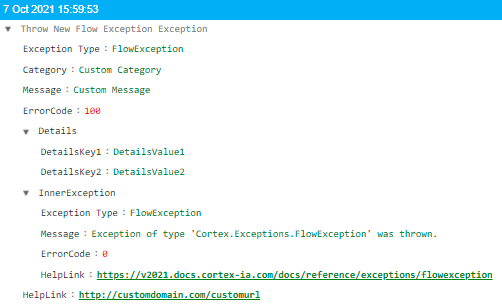
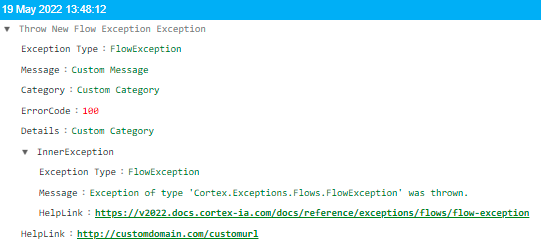
Fixed up incorrect error code data type and associated images

Changed region(s): [[0.0299, 0.6857, 0.9861, 1.0], [0.0, 0.0, 1.0, 0.3143], [0.0299, 0.3429, 0.3884, 0.6571]]

diff --git a/content/en/docs/Reference/Blocks/Exceptions/throw-exception/throw-new-flow-exception-block.md b/content/en/docs/Reference/Blocks/Exceptions/throw-exception/throw-new-flow-exception-block.md
@@ -18,12 +18,12 @@ All properties are optional, and if not supplied will be set to the following de
 
 | Property           | Default Value                     |
 |--------------------|-----------------------------------|
-| [Message][Message Property] | `"Exception of type 'Cortex.Exceptions.FlowException' was thrown."` |
+| [Message][Message Property] | `"Exception of type 'Cortex.Exceptions.Flows.FlowException' was thrown."` |
 | [Category][Category Property] | `null` |
-| [Error Code][ErrorCode Property] | `0` |
+| [Error Code][ErrorCode Property] | `null` |
 | [Details][Details Property] | `null`|
 | [InnerException][InnerException Property] | `null` |
-| [HelpLink][HelpLink Property] | `https://v2022.docs.cortex-ia.com/docs/reference/exceptions/flowexception` |
+| [HelpLink][HelpLink Property] | `https://v2022.docs.cortex-ia.com/docs/reference/exceptions/flows/flow-exception` |
 
 ## Examples
 
@@ -37,7 +37,7 @@ This example will throw a new [FlowException][] with all properties configured.
 |--------------------|---------------------------|------------------------------------------|
 | [Message][Message Property] | `($)Message`, with value `"Custom Message"` | `($)Message` is a variable of type [String][] |
 | [Category][Category Property] | `($)Category`, with value `"Custom Category"` | `($)Category` is a variable of type [String][] |
-| [Error Code][ErrorCode Property] | `($)ErrorCode`, with value `100` | `($)ErrorCode` is a variable of type [Int32][] |
+| [Error Code][ErrorCode Property] | `($)ErrorCode`, with value `100` | `($)ErrorCode` is a variable of type [Nullable][]&lt;[Int32][]&gt; |
 | [Details][Details Property] | `($)Details`, with value `{"DetailsKey1" : "DetailsValue1", "DetailsKey2" : "DetailsValue2"}` | `($)Details` is a variable of type [IDictionary][]&lt;[String][], [String][]&gt; |
 | [InnerException][InnerException Property] | `($)InnerException`, with value `($)Exception` containing another [FlowException][] with default properties | `($)InnerException` is a variable of type [FlowException][] |
 | [HelpLink][HelpLink Property] | `($)HelpLink`, with value `"http://customdomain.com/customurl"` | `($)HelpLink` is a variable of type [String][] |
@@ -72,7 +72,7 @@ Throwing a new [FlowException][] without configuring any of the block's properti
 
 A [Message][Message Property] describing the exception that occurred.
 
-If [Message][Message Property] is not provided or is set to `null`, it will default to `"Exception of type 'Cortex.Exceptions.FlowException' was thrown."`.
+If [Message][Message Property] is not provided or is set to `null`, it will default to `"Exception of type 'Cortex.Exceptions.Flows.FlowException' was thrown."`.
 
 | | |
 |--------------------|---------------------------|
@@ -94,13 +94,13 @@ A [Category][Category Property] that can be used to categorise similar types of 
 
 An [Error Code][ErrorCode Property] that can be used to uniquely identify the type of exception (e.g. There may be multiple exceptions with the same `AuthenticationError` category set, such as `InvalidCredentials`, `TokenExpired`. In this case each exception can be assigned its own unique [Error Code][ErrorCode Property]; `AuthenticationError` = `100` and `InvalidCredentials` = `101`). This can then be used for future decision making in the flow, or to assist in troubleshooting and reporting.
 
-If [Error Code][ErrorCode Property] is not provided, it will default to `0`.
+If [Error Code][ErrorCode Property] is not provided, it will default to `null`.
 
 | | |
 |--------------------|---------------------------|
-| Data Type | [Int32][] |
+| Data Type | [Nullable][]&lt;[Int32][]&gt; |
 | Property Type | [Input][] |
-| Default Value | `($)ErrorCode` with value `0` |
+| Default Value | `($)ErrorCode` with value `null` |
 
 ### Details
 
@@ -142,7 +142,7 @@ No exceptions are thrown by the block.
 
 ### Null Message
 
-If [Message][Message Property] is not provided or is set to `null`, it will default to `"Exception of type 'Cortex.Exceptions.FlowException' was thrown."`.
+If [Message][Message Property] is not provided or is set to `null`, it will default to `"Exception of type 'Cortex.Exceptions.Flows.FlowException' was thrown."`.
 
 ### Null Help Link
 
@@ -164,3 +164,4 @@ If [Help Link][HelpLink Property] is not provided or is set to `null`, it will d
 [dynamic]: {{< url "Cortex.Reference.DataTypes.All.dynamic.MainDoc" >}}
 [Exception]: {{< url "Cortex.Reference.DataTypes.MostCommon.Exception" >}}
 [FlowException]: {{< url "Cortex.Reference.Exceptions.FlowException.MainDoc" >}}
+[Nullable]: {{< url "Cortex.Reference.DataTypes.MostCommon.Nullable" >}}
